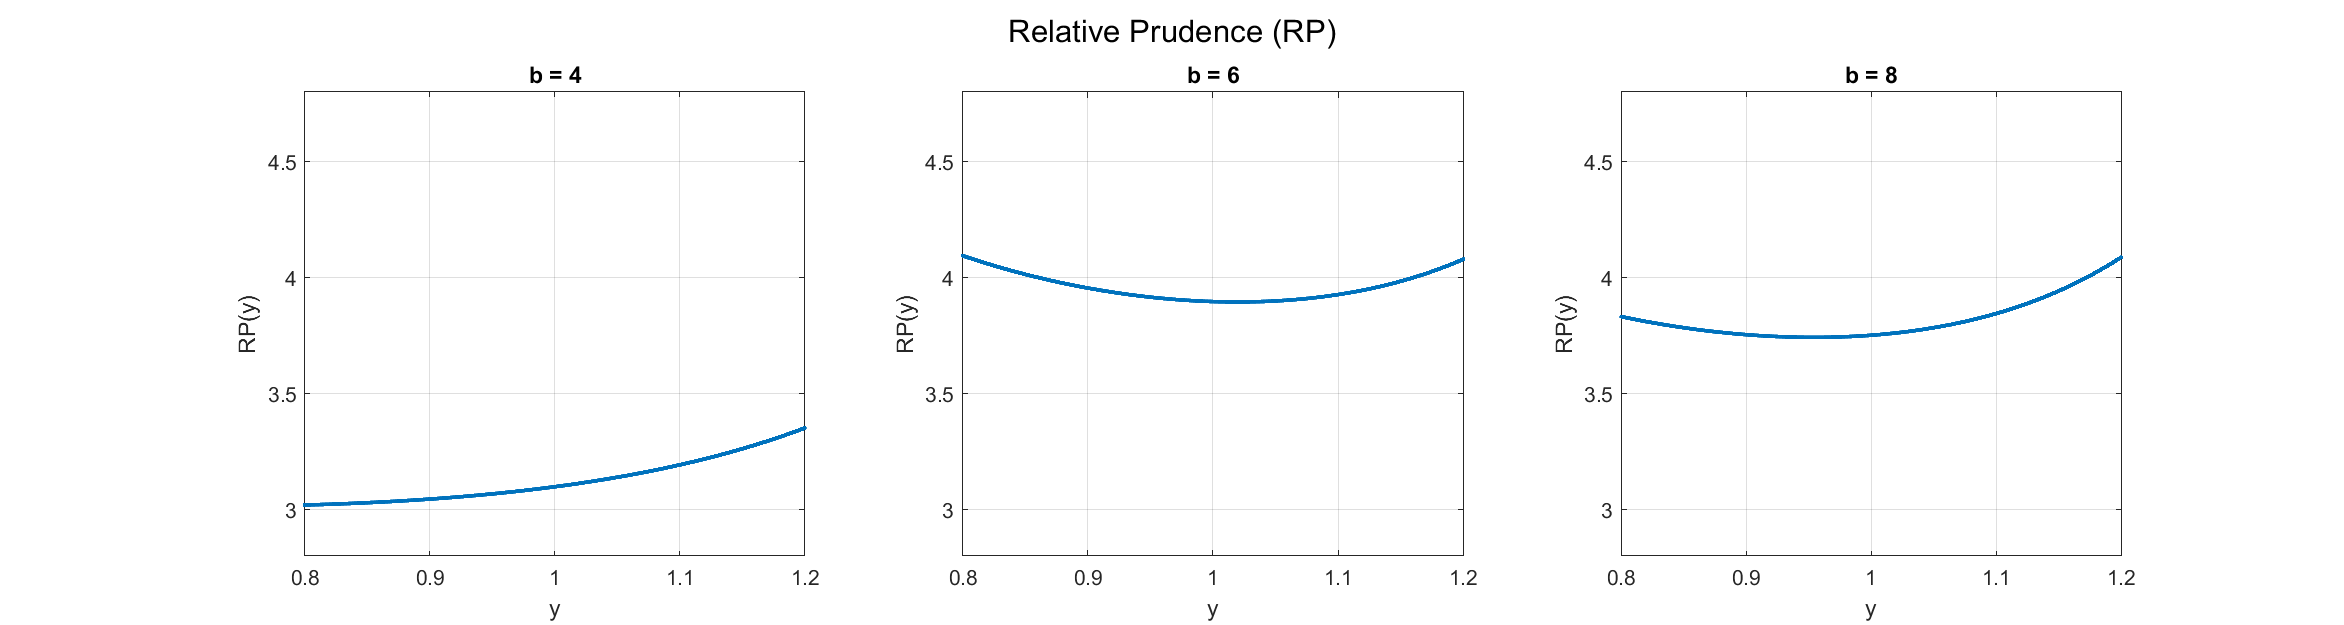
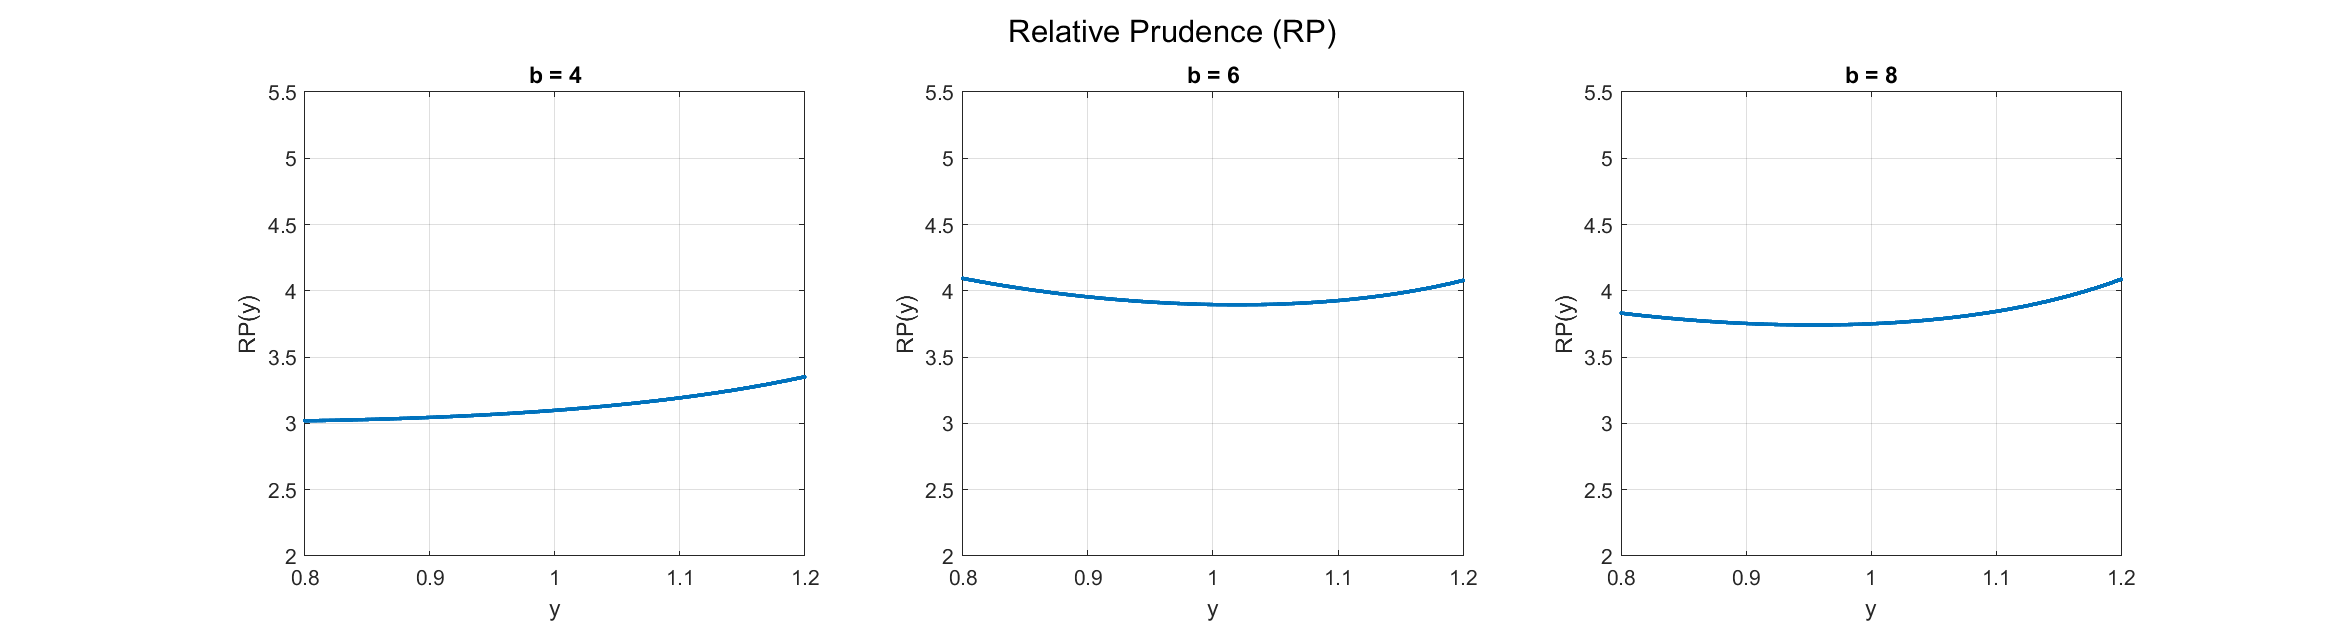
Adjust the y-axis range of the picture

diff --git a/04  風險偏好指標（Risk Preference）/Procedure__Risk_Preference.m b/04  風險偏好指標（Risk Preference）/Procedure__Risk_Preference.m
@@ -284,8 +284,8 @@ clear filename
 
 %% Relative Prudence (RP)
 
-y_min = 2.8;
-y_max = 4.8;
+y_min = 2;
+y_max = 5.5;
 
 figure;
 for idx = 1:3
